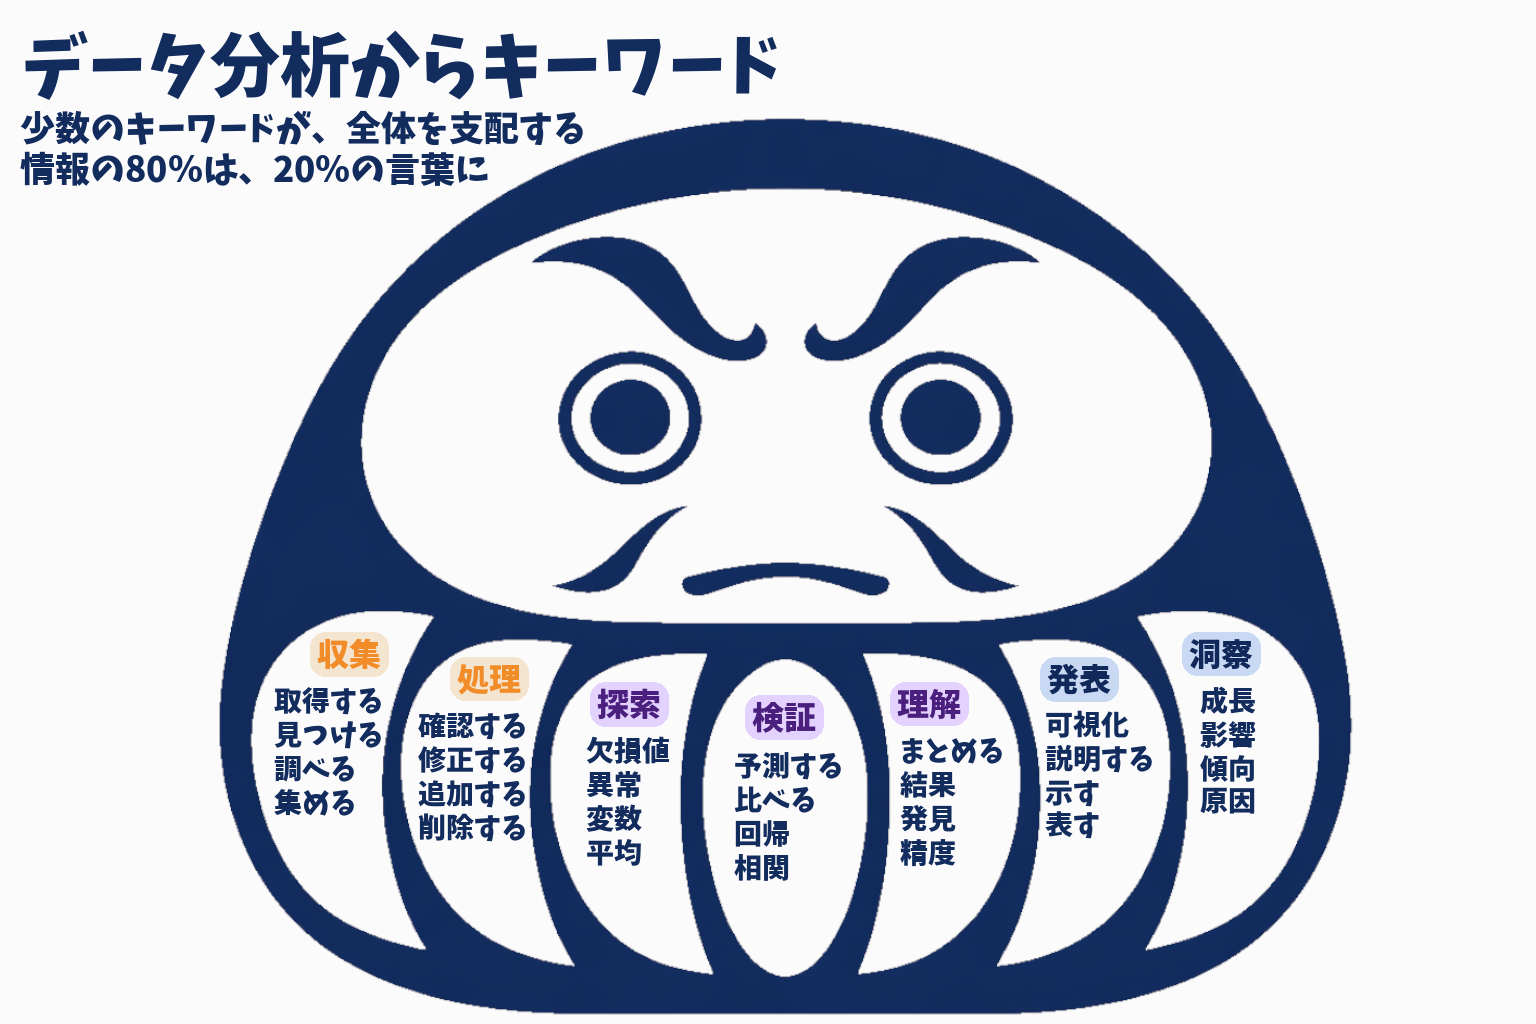
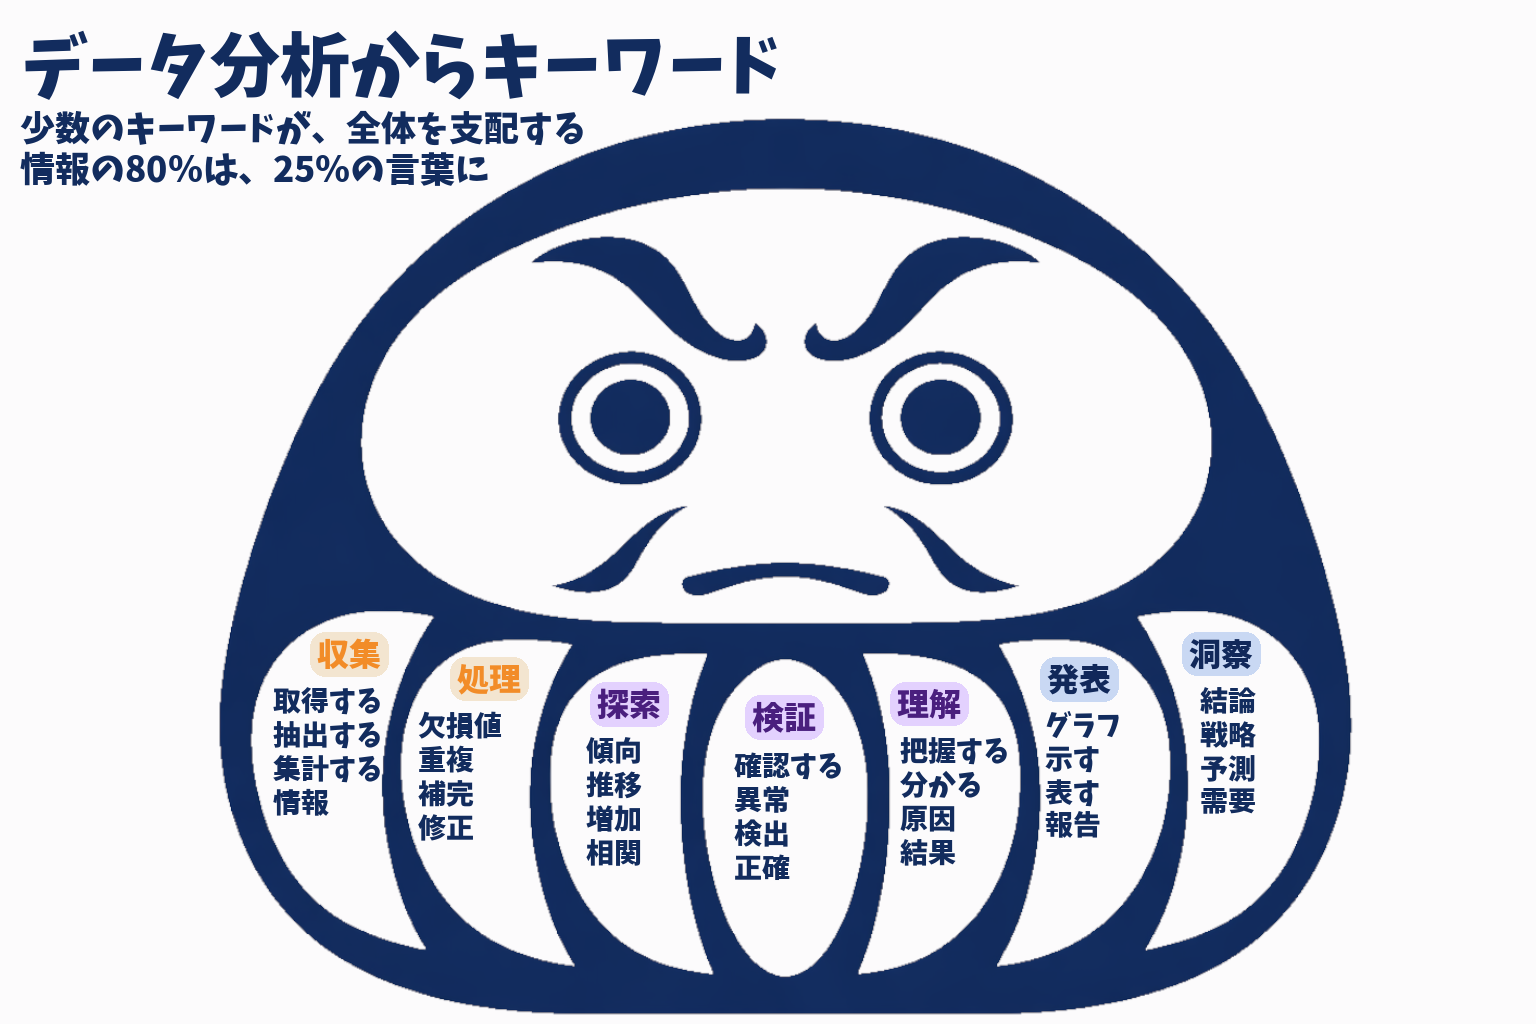
Updated the daruma infographic

diff --git a/plots/english/pipeline_diagram/pipeline.py b/plots/english/pipeline_diagram/pipeline.py
@@ -1,0 +1,25 @@
+# pipeline_diagram.py
+from graphviz import Digraph
+
+steps = [
+    "Scenario Design",
+    "AI-Generated Conversation Corpora\n(Standard + JLPT N3-Constrained)",
+    "Tokenization & Grammar Extraction",
+    "Frequency Analysis\n(Vocabulary + Grammar)",
+    "Coverage & Pattern Analysis",
+]
+
+dot = Digraph("Small Pipeline", format="png")
+dot.attr(rankdir="TB", bgcolor="white")
+dot.attr("node", shape="box", style="rounded,filled", fillcolor="#F4F7FB",
+         color="#4A5568", fontname="Helvetica", fontsize="12", margin="0.18")
+dot.attr("edge", color="#4A5568", arrowsize="0.8")
+
+for i, step in enumerate(steps):
+    dot.node(f"step{i}", step)
+
+for i in range(len(steps) - 1):
+    dot.edge(f"step{i}", f"step{i+1}")
+
+dot.render("pipeline_diagram", cleanup=True)
+print("Saved as pipeline_diagram.png") 
